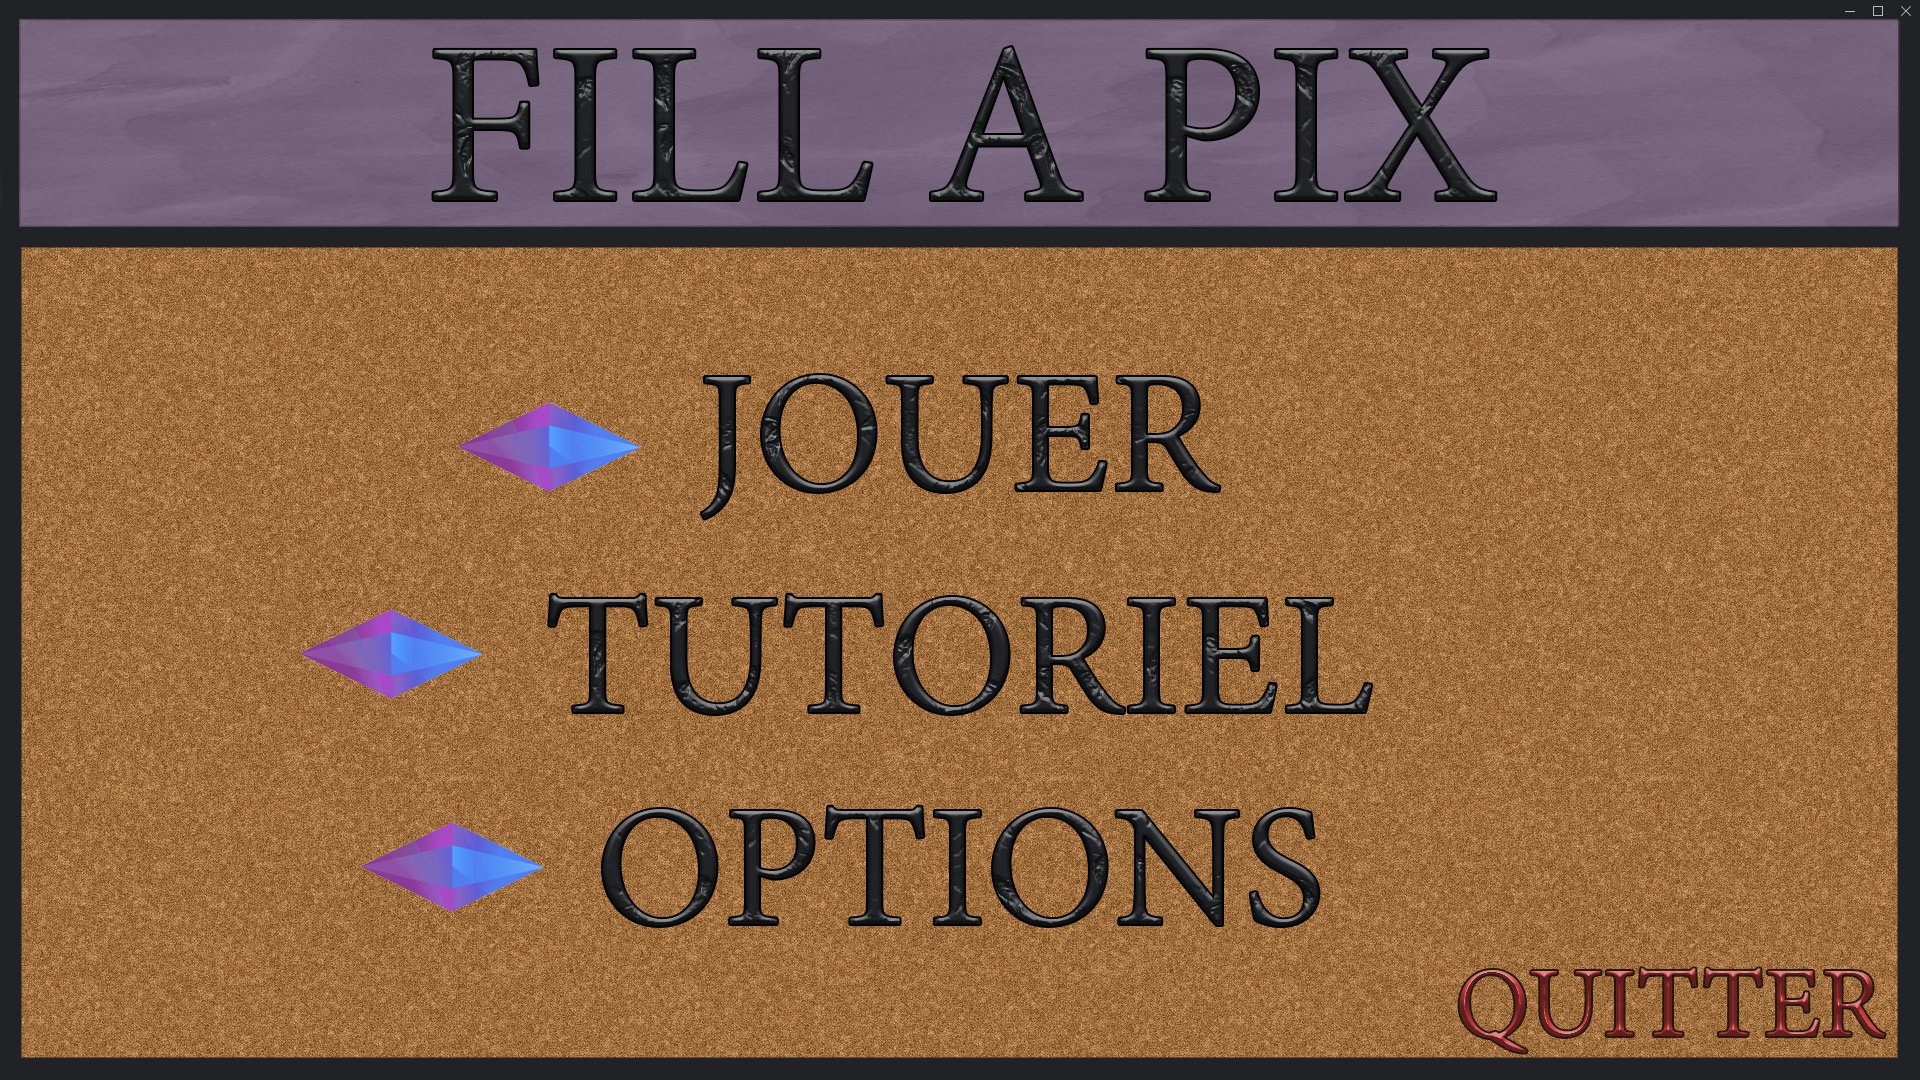
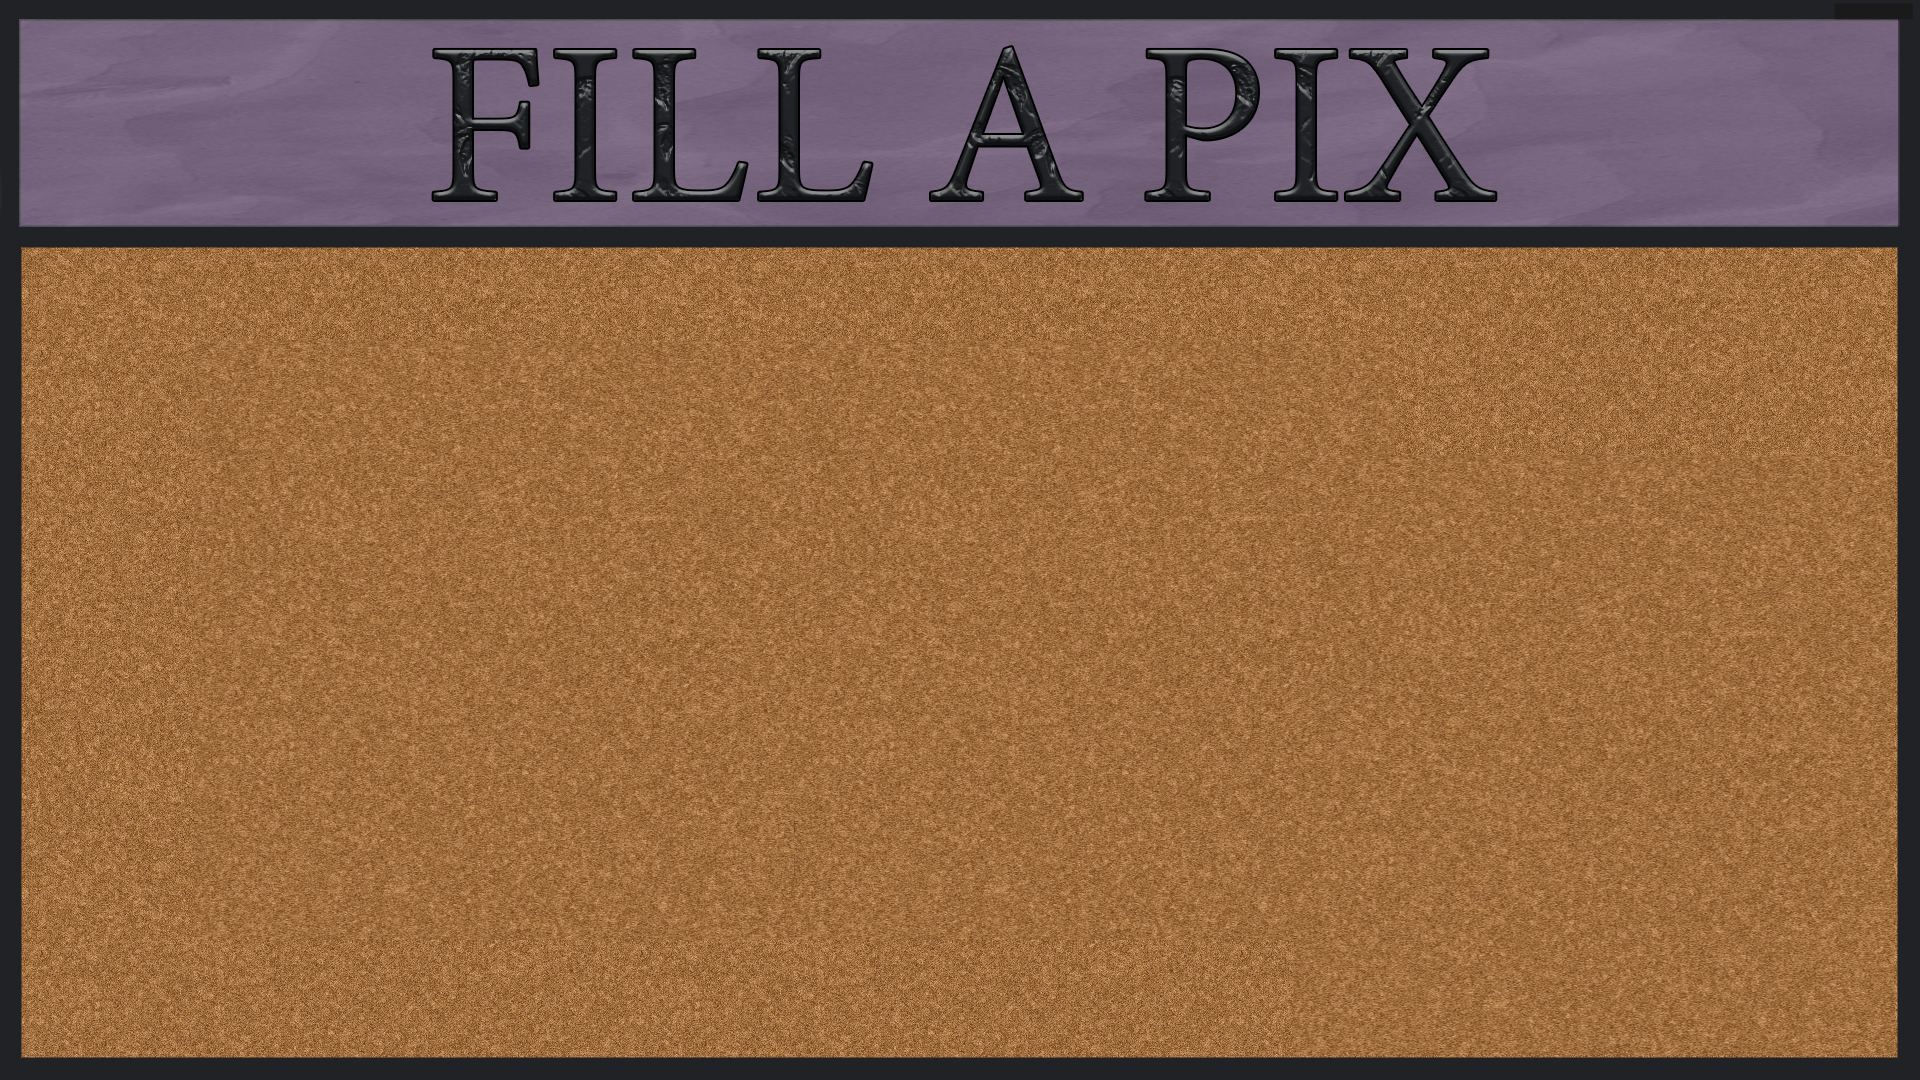
Intégration des boutons du menu, boutons options et tuto sans effet pour le moment, pb avec le bouton quitter

Changed region(s): [[0.0938, 0.3056, 1.0, 0.9778]]

diff --git a/Tests/Ecran_menu.rb b/Tests/Ecran_menu.rb
@@ -1,4 +1,5 @@
 class Ecran_menu
+    
 
     def Ecran_menu.creer(win)
         new(win)
@@ -12,35 +13,91 @@ class Ecran_menu
     # * +win+   La fenetre de l'application
     def initialize(win)
         @win = win
+
         @boite = Gtk::Fixed.new()
         @boite1 = Gtk::Box.new(:vertical)
 
-        @jouer = Gtk::Button.new(:label => "Jouer")
-        @quitter = Gtk::Button.new(:label => "Quitter")
+        @jouer = Gtk::Button.new(:label => "")
+        @tuto = Gtk::Button.new(:label => "")
+        @option = Gtk::Button.new(:label => "")
+        @quitter = Gtk::Button.new(:label => "")
 
-        @boite.add(Gtk::Image.new("../maquettes/menu.png"))
+        @boite.add(Gtk::Image.new(:file => "../maquettes/menu.png"))
         @boite1.add(@boite)
 
+        ##
+        # Ajout des signaux des boutons
         @quitter.signal_connect("clicked"){
+            exit(true)
             Gtk.main_quit
         }
         @jouer.signal_connect("clicked"){
             vers_jeu()
         }
 
-        truc = Gtk::CssProvider.new
+        ##
+        # Création des CSS pour les boutons 
+        jouerImage = Gtk::CssProvider.new
 
-        truc.load(data: <<-CSS)
+        jouerImage.load(data: <<-CSS)
         button {
-            background-image: image(white);
-            color: black;
+            background-image: url("../maquettes/image18-3.png");
+            border: unset;
         }
         CSS
 
-        @jouer.style_context.add_provider(truc, Gtk::StyleProvider::PRIORITY_USER)
-        @quitter.style_context.add_provider(truc, Gtk::StyleProvider::PRIORITY_USER)   
+        tutoImage = Gtk::CssProvider.new
 
-        #@boite.put(@jouer, 500, 500)
+        tutoImage.load(data: <<-CSS)
+        button {
+            background-image: url("../maquettes/image18-5.png");
+            border: unset;
+        }
+        CSS
+
+        optionImage = Gtk::CssProvider.new
+
+        optionImage.load(data: <<-CSS)
+        button {
+            background-image: url("../maquettes/image18.png");
+            border: unset;
+        }
+        CSS
+
+        quitterImage = Gtk::CssProvider.new
+
+        quitterImage.load(data: <<-CSS)
+        button {
+            background-image: url("../maquettes/quitter.png");
+            border: unset;
+        }
+        CSS
+
+        widthOptionsPrincipales = 1134
+        heightOptionsPrincipales = 215
+        width = 438
+        height = 101
+
+        ##
+        # Ajout du CSS aux bouton et on leur donne leur taille
+        @jouer.style_context.add_provider(jouerImage, Gtk::StyleProvider::PRIORITY_USER)
+        @jouer.set_size_request(widthOptionsPrincipales, heightOptionsPrincipales)
+
+        @option.style_context.add_provider(optionImage, Gtk::StyleProvider::PRIORITY_USER)  
+        @option.set_size_request(widthOptionsPrincipales, heightOptionsPrincipales) 
+
+        @tuto.style_context.add_provider(tutoImage, Gtk::StyleProvider::PRIORITY_USER)  
+        @tuto.set_size_request(widthOptionsPrincipales, heightOptionsPrincipales) 
+
+        @quitter.style_context.add_provider(quitterImage, Gtk::StyleProvider::PRIORITY_USER)  
+        @quitter.set_size_request(width, height) 
+
+        ##
+        #Ajout des boutons et box dans les containers
+        @boite.put(@jouer, (Gdk::Screen.default.width / 2) - widthOptionsPrincipales*1.40, 300)
+        @boite.put(@tuto, (Gdk::Screen.default.width / 2) - widthOptionsPrincipales*1.40, 500)
+        @boite.put(@option, (Gdk::Screen.default.width / 2) - widthOptionsPrincipales*1.40, 700)
+        @boite.put(@quitter, (Gdk::Screen.default.width * 0.67- widthOptionsPrincipales) - 10, Gdk::Screen.default.height * 0.88)
 
         @win.add(@boite1)
 
@@ -51,7 +108,7 @@ class Ecran_menu
     ##
     # Permet de changer la fenetre pour aller afficher l'écran de jeu
     def vers_jeu()
-        @win.remove(@boite)
+        @win.remove(@boite1)
         Ecran_jeu.creer(@win)
     end
 end
